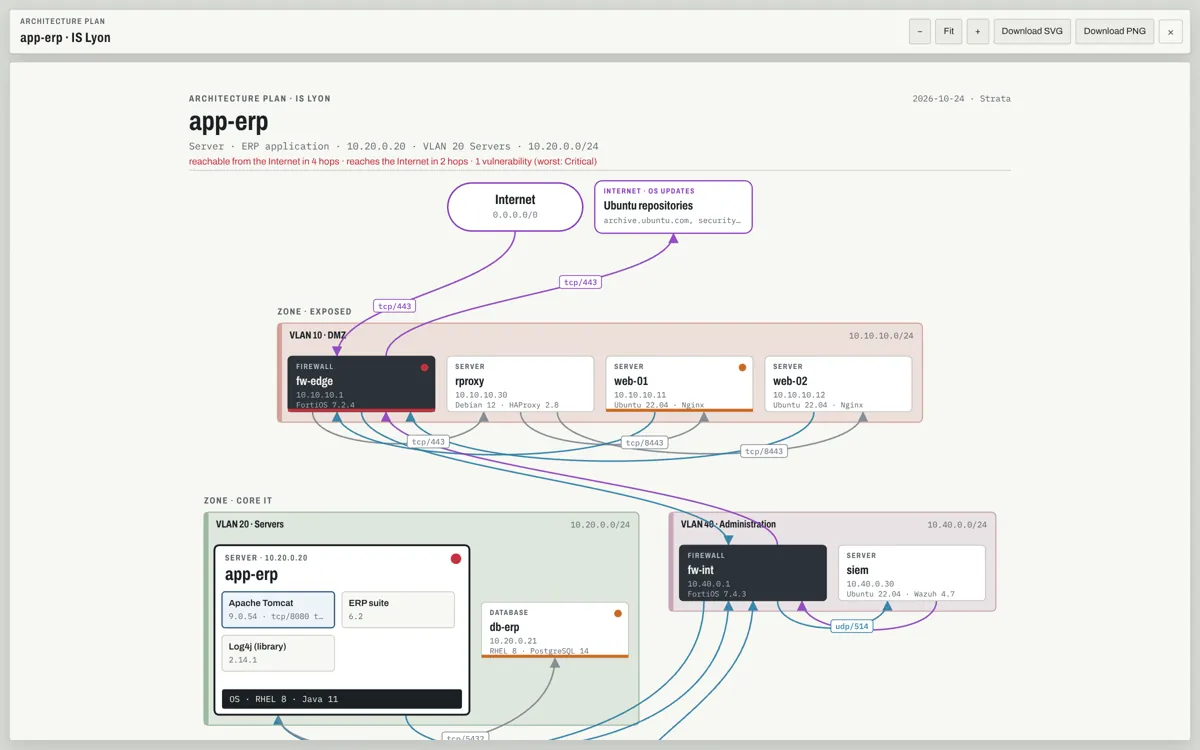
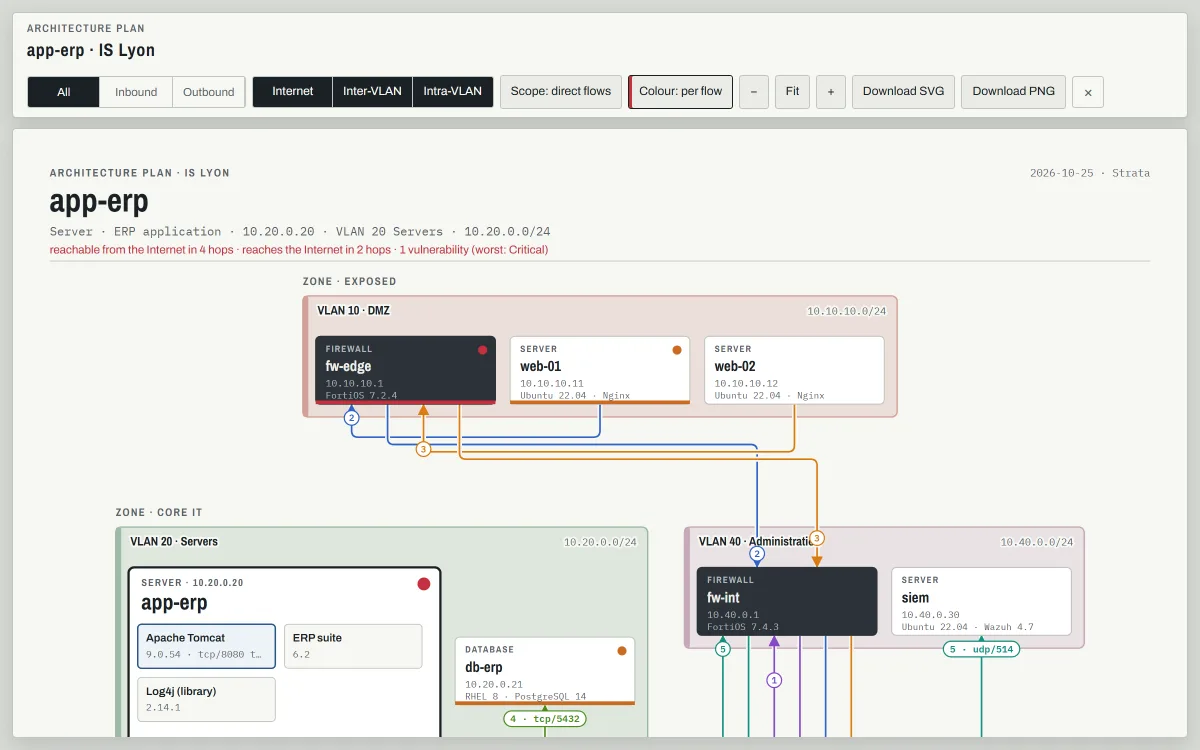
Site: Strata 0.6 features and screenshots (#32)
Documentation: views and business services, risk priorities, flow lanes
and per-flow colours, the new architecture plan, EPSS/KEV, IP from the
VLAN range, limits; title and footer to 0.6. Features page: two new
layers (business, risk) and a new plan screenshot.

Changed region(s): [[0.0, 0.0, 1.0, 1.0], [0.925, 0.2147, 0.9558, 0.2453], [0.8633, 0.2147, 0.8942, 0.2453]]

diff --git a/docs/docs.html b/docs/docs.html
@@ -39,6 +39,8 @@
       <li><a href="#systemd">Without Docker</a></li>
       <li><a href="#accounts">Accounts and roles</a></li>
       <li><a href="#map">Building the map</a></li>
+      <li><a href="#views">Views and business services</a></li>
+      <li><a href="#risk">Risk priorities</a></li>
       <li><a href="#proposals">Proposals and history</a></li>
       <li><a href="#services">Internet services</a></li>
       <li><a href="#connectors">Connectors</a></li>
@@ -53,7 +55,7 @@
   </nav>
 
   <article id="content">
-    <h1 class="strata-type"><span class="w">Documentation</span><span class="n">for Strata 0.5.</span></h1>
+    <h1 class="strata-type"><span class="w">Documentation</span><span class="n">for Strata 0.6.</span></h1>
     <p>Strata maps your information systems in 3D: each site is a stack of plates (zones), coloured by VLAN, holding its assets, the flows between them, what they expose, their vulnerabilities and the people to call. It runs on your own server.</p>
 
     <h2 id="install" style="--edge:var(--s7)">Install with Docker</h2>
@@ -150,13 +152,37 @@ docker compose exec strata node scripts/users.mjs disable alice</code></pre><but
     <h3>Sites, zones, VLANs</h3>
     <p>An information system (IS) is a site. <em>Zones, contacts</em> sets its zones (one level each, for example Industrial, Office, Core IT, Exposed), its VLANs with their ranges, and the IS contacts shown on assets that have none of their own. <em>Arrange plates</em> lets you drag a plate anywhere on its level; <em>Line up</em> puts a level back in a row.</p>
     <h3>Assets</h3>
-    <p>Each asset has a type (server, firewall, router, switch, workstation, PLC…), a VLAN, an IP, a system, applications with their listening ports, vulnerabilities with CVSS, a criticality, incident contacts and notes. Search by name or IP to fly to it.</p>
+    <p>Each asset has a type (server, firewall, router, switch, workstation, PLC…), a VLAN, an IP, a system, applications with their listening ports, vulnerabilities, a criticality, incident contacts and notes. A new asset starts on the first free IP of its VLAN range; an IP outside the range is pointed out. A vulnerability has a CVSS score or a severity, and optionally an EPSS (0 to 1, or a percentage) and a <em>Known exploited (CISA KEV)</em> mark. Search by name or IP to fly to it.</p>
     <h3>Flows</h3>
     <p>A flow goes from a source to a destination on a port: assets, the Internet, or a named Internet service. Strata suggests the devices it crosses (edge firewall for Internet traffic, core firewall or router between VLANs); untick <em>Suggested</em> to set the path yourself. Exposure follows from the flows: a port is <em>Internet</em>, <em>inter-VLAN</em> or <em>intra-VLAN</em> depending on where its traffic comes from.</p>
+    <p>Every flow crossing a firewall, router, switch or gateway has its own lane on that device, in 3D and in 2D. <em>Flows › Colour by</em> colours them by risk, by exposure, or <em>Per flow</em>: flows that cross the same device then never share a colour (up to 10). On a device sheet, <em>Flows crossing this equipment</em> lists them in lane order; hovering one picks it out on the model.</p>
     <h3>2D diagram</h3>
     <p>The <em>2D diagram</em> view is the same model, flat: drag assets and plates, draw a flow from one asset to another (<kbd>F</kbd>), add an asset on a plate (<kbd>A</kbd>), move (<kbd>V</kbd>). Positions are shared with the 3D model.</p>
     <h3>Theme</h3>
     <p><em>Display › Theme</em>: Auto follows the system, Day and Night force it. <kbd>N</kbd> switches.</p>
+
+    <h2 id="views" style="--edge:var(--s3)">Views and business services</h2>
+    <p>The switch at the top of an IS gives three points of view:</p>
+    <ul>
+      <li><strong>Physical</strong>: the 3D model and the 2D diagram.</li>
+      <li><strong>Application</strong>: one box per application (Nginx, Tomcat, PostgreSQL…) with the assets it runs on, and arrows for the flows between applications, from the one that sends them to the one listening on their port. Workstations and other pure clients are grouped by type and VLAN.</li>
+      <li><strong>Business</strong>: the business services of the IS, and everything each one relies on.</li>
+    </ul>
+    <p>A <strong>business service</strong> is an activity of the organisation: online sales, payroll, production line 1. Add one in the Business view (<em>+ Business service</em>) with a criticality, an owner and only the assets it runs on; an asset form also ticks the services it runs. Strata works out the rest from the flows: the assets they call, and so on, the equipment these flows cross and the equipment in front of the service, and the Internet services they use. Log and monitoring flows (syslog, SNMP traps, NetFlow) are left out. <em>Show on the model</em> picks a service out in 3D or 2D.</p>
+    <p>The asset sheet lists the <strong>business services impacted</strong> by an asset, and why: it runs on it, it relies on it through a chain of flows (<em>web-01 → app-erp → db-erp</em>), or its flows cross that equipment.</p>
+
+    <h2 id="risk" style="--edge:var(--s0)">Risk priorities</h2>
+    <p><em>Analysis › Risk priorities</em> gives one score per asset, from 0 to 100, and the vulnerabilities to fix in order. The score multiplies three factors, each between 0 and 1:</p>
+    <div class="tablewrap"><table>
+      <thead><tr><th scope="col">Factor</th><th scope="col">How it is computed</th></tr></thead>
+      <tbody>
+        <tr><th scope="row">Vulnerabilities</th><td>For each one, its severity (CVSS / 10) times its likelihood of exploitation: 1 when it is on the CISA list of known exploited vulnerabilities, otherwise <code>0.15 + 0.85 × √EPSS</code>, otherwise 0.3. Combined as the chance that at least one gets exploited.</td></tr>
+        <tr><th scope="row">Context</th><td>The average of the exposure (Internet 1, inter-VLAN 0.7, intra-VLAN 0.45, none 0.3) and the reachability from the Internet along the flows (1 for one hop, 0.1 less for each extra hop, at least 0.5; 0.3 when not reachable).</td></tr>
+        <tr><th scope="row">Criticality</th><td>The higher of the asset’s own and that of the business services it would hit: low 0.5, medium 0.75, high 1.</td></tr>
+      </tbody>
+    </table></div>
+    <p>Critical from 70, high from 40, medium from 20. The fixes are ordered by the score each vulnerability would give its asset on its own. <em>Remediation list (CSV)</em> exports the whole list. On the asset sheet, <em>Risk score › Why?</em> shows each factor.</p>
+    <p class="note">Strata does not download the EPSS and KEV feeds: it works offline. They come from the Cyberwatch connector, an import, or the asset form.</p>
 
     <h2 id="proposals" style="--edge:var(--s6)">Proposals and history</h2>
     <p>A contributor clicks <em>Propose a change</em>, then edits as usual: everything goes into a draft (blue <em>Draft</em> bar) and the live map does not move. <em>Submit for review</em> sends it to the approvers. A proposal can also start from a JSON file: a whole-map export, or one IS exported with <em>Export this IS (JSON)</em>.</p>
@@ -170,7 +196,7 @@ docker compose exec strata node scripts/users.mjs disable alice</code></pre><but
     <p>In <em>Collaboration › Connectors</em>. An admin fills in each connector’s settings; <em>Test the connection</em> checks access; <em>Sync now</em> (approver) runs it in the background; <em>Sync automatically every … hours</em> schedules it. <strong>Connectors never write the map:</strong> each run prepares one proposal per IS, refreshed in place while it is still open. When the map already matches, no proposal is created.</p>
     <p>Credentials are stored in <code>data/connectors.json</code> (mode 600), never sent back to browsers. For internal certificates, paste your CA in <em>More settings</em>, or tick <em>Accept any TLS certificate</em> on a trusted network. Assets remember their record in each tool (<code>ext</code>), so later syncs still match after a rename.</p>
     <h3>Cyberwatch</h3>
-    <p>Reads the server list and each server’s CVEs (API v3). Matches assets by host name, then IP. Lowest severity and maximum per asset are configurable; CVEs ignored in Cyberwatch are left out by default. Cyberwatch owns the <code>CVE-…</code> entries of the assets it scans; findings typed by hand are kept. Create a read-only API key in <em>Profile › API keys</em>; Basic authentication is the default, the older HMAC signature is available for older instances.</p>
+    <p>Reads the server list and each server’s CVEs (API v3). Matches assets by host name, then IP. Lowest severity and maximum per asset are configurable; CVEs ignored in Cyberwatch are left out by default. Cyberwatch owns the <code>CVE-…</code> entries of the assets it scans; findings typed by hand are kept. EPSS and the CISA KEV mark are read when Cyberwatch gives them. Create a read-only API key in <em>Profile › API keys</em>; Basic authentication is the default, the older HMAC signature is available for older instances.</p>
     <h3>GLPI</h3>
     <p>Reads computers, network devices, printers and phones through <code>apirest.php</code> (GLPI 9.5 and 10): IP addresses from network ports, operating system, installed software, technician and group in charge, location. The location picks the IS, with rules such as <code>Lyon = lyon</code> or <code>/^DC-?West/ = dcw</code>, otherwise the IS whose name appears in it. Existing assets get their system, applications and contacts (entries typed by hand stay); missing assets are created on the VLAN whose range holds their IP, or on a “To sort” plate. Enable the REST API, create an API client (App-Token) and a read-only service account with a user token.</p>
     <h3>phpIPAM</h3>
@@ -191,8 +217,9 @@ docker compose exec strata node scripts/users.mjs disable alice</code></pre><but
 
     <h2 id="exports" style="--edge:var(--s0)">Plans and exports</h2>
     <ul>
-      <li><strong>Architecture plan</strong> of an asset: every path to the Internet and every device crossed, as PNG or SVG; plans stay light whatever the theme.</li>
+      <li><strong>Architecture plan</strong> of an asset, as PNG or SVG, light whatever the theme. One right-angle line per flow, numbered, with the table of its flows (path, port, volume, exposure) and of the <strong>firewall rules</strong> the asset needs under the drawing. <em>Scope</em>: the asset’s own flows, or every path from and to the Internet. Filters: inbound, outbound, crossing; Internet, inter-VLAN, intra-VLAN. <em>Colour</em>: by exposure, or per flow.</li>
       <li><strong>Flow matrix</strong> and <strong>firewall rules</strong> of an asset as CSV (a generic table, to map to your firewall’s object names).</li>
+      <li><strong>Remediation list</strong> of an IS as CSV, from <em>Risk priorities</em>.</li>
       <li><strong>2D diagram</strong> as SVG.</li>
       <li><strong>Export JSON</strong>: the whole map, or one IS, to back up, move or edit elsewhere and bring back as a proposal.</li>
     </ul>
@@ -269,6 +296,8 @@ docker compose up -d --build  # or: docker compose pull &amp;&amp; docker compos
       <li>Connectors follow the public API documentation of each tool and were tested against simulators: test, sync, and read the first proposal carefully. GLPI 11’s new API (<code>/api.php/v2</code>) is not supported yet.</li>
       <li>Palo Alto: NAT rules, security profiles, dynamic address groups and the Panorama device-group hierarchy are not interpreted.</li>
       <li>draw.io and Visio imports are not supported: only Strata JSON exports become proposals.</li>
+      <li>Business dependencies follow the recorded flows: a dependency with no flow on the map is not seen.</li>
+      <li>The risk score uses the EPSS and KEV values recorded on each vulnerability; Strata does not fetch them. A vulnerability is not tied to a port, so any open flow to its asset counts.</li>
     </ul>
   </article>
 </div>
@@ -278,7 +307,7 @@ docker compose up -d --build  # or: docker compose pull &amp;&amp; docker compos
     <a href="https://solidgeeks.github.io/SolidGeeks/"> <img src="https://raw.githubusercontent.com/SolidGeeks/.github/main/assets/footer/solid-geeks-footer.gif" alt="Solid Geeks: open source the world." width="100%"> </a>
   </div>
   <div class="wrap">
-    <p>Strata 0.5.5 · <a href="https://github.com/SolidGeeks/strata/blob/main/LICENSE">AGPL-3.0</a> · <a href="https://github.com/SolidGeeks/strata">github.com/SolidGeeks/strata</a> · <a href="https://github.com/SolidGeeks/strata/blob/main/CHANGELOG.md">Changelog</a></p>
+    <p>Strata 0.6.0 · <a href="https://github.com/SolidGeeks/strata/blob/main/LICENSE">AGPL-3.0</a> · <a href="https://github.com/SolidGeeks/strata">github.com/SolidGeeks/strata</a> · <a href="https://github.com/SolidGeeks/strata/blob/main/CHANGELOG.md">Changelog</a></p>
     <p>Cyberwatch, GLPI, phpIPAM and Palo Alto Networks are trademarks of their owners; Strata is not affiliated with them.</p>
   </div>
 </footer>

diff --git a/docs/index.html b/docs/index.html
@@ -95,7 +95,7 @@ nano .env    # EDIT_PASS=a-long-passphrase</code></pre><button class="copy" type
     <div class="txt">
       <h3>A model you can walk around, and a diagram you can draw</h3>
       <p>Each information system is a stack of plates: one per zone, one colour per VLAN, an object per asset. Orbit, zoom, filter by severity or exposure. Switch to the 2D diagram to add assets, draw flows and arrange plates; both views share the same positions, so what you draw flat is what you see in 3D.</p>
-      <ul class="facts"><li>Flows routed through the firewalls, routers and switches they cross</li><li>Plates movable anywhere on their level</li><li>Five sites in the demo, linked by WAN</li></ul>
+      <ul class="facts"><li>Flows routed through the firewalls, routers and switches they cross, each in its own lane</li><li>One colour per flow, on demand</li><li>Plates movable anywhere on their level</li><li>Five sites in the demo, linked by WAN</li></ul>
     </div>
     <figure class="shot"><img src="assets/img/diagram-1200.webp" srcset="assets/img/diagram-1200.webp 1200w, assets/img/diagram.webp 2400w" sizes="(min-width: 1000px) 60vw, 100vw" width="2400" height="1500" alt="The 2D diagram of the Lyon site: four levels of VLAN plates with asset cards and flows" loading="lazy"><figcaption>2D diagram of the demo’s Lyon site.</figcaption></figure>
   </article>
@@ -109,13 +109,31 @@ nano .env    # EDIT_PASS=a-long-passphrase</code></pre><button class="copy" type
     <figure class="shot"><img src="assets/img/site-day-1200.webp" srcset="assets/img/site-day-1200.webp 1200w, assets/img/site-day.webp 2400w" sizes="(min-width: 1000px) 60vw, 100vw" width="2400" height="1500" alt="The 3D model zoomed on the ERP server, with its asset sheet: applications, vulnerabilities and incident contacts" loading="lazy"><figcaption>The ERP server and its sheet: Log4j inside, two contacts to call.</figcaption></figure>
   </article>
 
+  <article class="layer" style="--edge:var(--s4)">
+    <div class="txt">
+      <h3>From the network to the business</h3>
+      <p>Look at the same IS three ways: physical, application by application, or business service by business service. Say which assets a service runs on; Strata follows the flows to find what else it relies on. Open any asset and it tells you which business services would stop if it went down or were taken over.</p>
+      <ul class="facts"><li>Dependencies worked out from the flows</li><li>A business service picked out on the model</li></ul>
+    </div>
+    <figure class="shot"><img src="assets/img/business-1200.webp" srcset="assets/img/business-1200.webp 1200w, assets/img/business.webp 2400w" sizes="(min-width: 1000px) 60vw, 100vw" width="2400" height="1500" alt="The Business view of the Lyon site: cards for the customer portal and the ERP, listing the assets they run on, call and cross" loading="lazy"><figcaption>Business view of the demo’s Lyon site.</figcaption></figure>
+  </article>
+
+  <article class="layer" style="--edge:var(--s1)">
+    <div class="txt">
+      <h3>What to fix first</h3>
+      <p>One risk score per asset, from CVSS, EPSS, the CISA list of known exploited vulnerabilities, exposure, reachability from the Internet and criticality. The result is a remediation list in the right order, exported as CSV, and a “Why?” on every asset that shows how its score was made.</p>
+      <ul class="facts"><li>EPSS and KEV from the Cyberwatch connector</li><li>Works offline: no feed to download</li></ul>
+    </div>
+    <figure class="shot"><img src="assets/img/risk-1200.webp" srcset="assets/img/risk-1200.webp 1200w, assets/img/risk.webp 2400w" sizes="(min-width: 1000px) 60vw, 100vw" width="2400" height="1500" alt="Risk priorities of the Lyon site: the fixes in order, each with its KEV, EPSS, CVSS and exposure" loading="lazy"><figcaption>Risk priorities: a firewall flaw known to be exploited comes first.</figcaption></figure>
+  </article>
+
   <article class="layer" style="--edge:var(--s2)">
     <div class="txt">
       <h3>Documents that write themselves</h3>
-      <p>Pick an asset and get its architecture plan: every path to the Internet, every device crossed, ready for a PNG or SVG in your documentation. Export its flow matrix and the firewall rules it needs as CSV.</p>
+      <p>Pick an asset and get its architecture plan, ready for a PNG or SVG in your documentation. Every flow is drawn as its own numbered line, with the table of its flows and of the firewall rules the asset needs. Filter by direction or by kind of flow. Export its flow matrix and firewall rules as CSV.</p>
       <ul class="facts"><li>Plans stay light, whatever the theme</li><li>Whole map or one site as JSON</li></ul>
     </div>
-    <figure class="shot"><img src="assets/img/plan-1200.webp" srcset="assets/img/plan-1200.webp 1200w, assets/img/plan.webp 2400w" sizes="(min-width: 1000px) 60vw, 100vw" width="2400" height="1500" alt="Architecture plan of the ERP server: Internet, Ubuntu repositories, the DMZ and the core IT zone with the devices crossed" loading="lazy"><figcaption>Architecture plan generated for app-erp.</figcaption></figure>
+    <figure class="shot"><img src="assets/img/plan-1200.webp" srcset="assets/img/plan-1200.webp 1200w, assets/img/plan.webp 2400w" sizes="(min-width: 1000px) 60vw, 100vw" width="2400" height="1500" alt="Architecture plan of the ERP server: one numbered line per flow through the edge and internal firewalls, coloured per flow" loading="lazy"><figcaption>Architecture plan generated for app-erp, one colour per flow.</figcaption></figure>
   </article>
 
   <article class="layer" style="--edge:var(--s3)">
